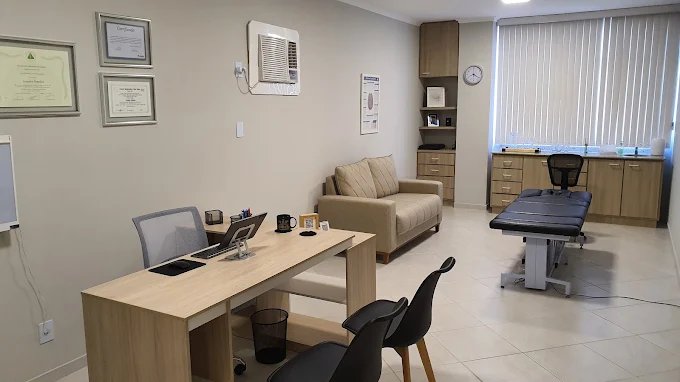
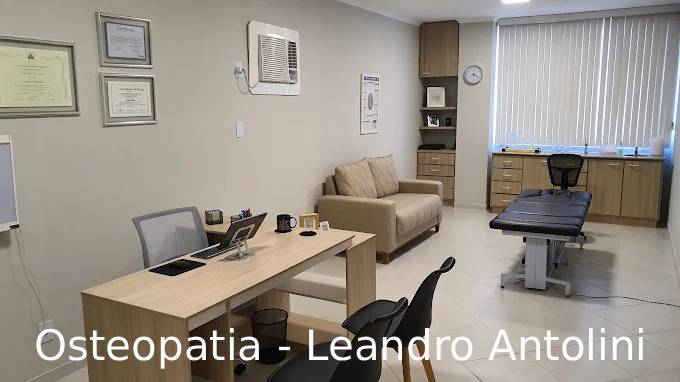
[dyad] Atualizando imagem e removendo título do espaço publicitário - wrote 2 file(s)

Changed region(s): [[0.0309, 0.8639, 0.9574, 0.9791], [0.3397, 0.5471, 0.3706, 0.5759]]

diff --git a/pages/DashboardPage.tsx b/pages/DashboardPage.tsx
@@ -151,10 +151,7 @@ const DashboardPage: React.FC = () => {
       </Card>
 
       <Card>
-        <CardHeader className="p-3 pb-1">
-          <CardTitle className="text-base font-semibold">Osteopatia - Leandro Antolini</CardTitle>
-        </CardHeader>
-        <CardContent className="p-2 pt-0">
+        <CardContent className="p-2">
           <a 
             href="https://www.instagram.com/osteopatia.leandro.antolini/" 
             target="_blank" 
